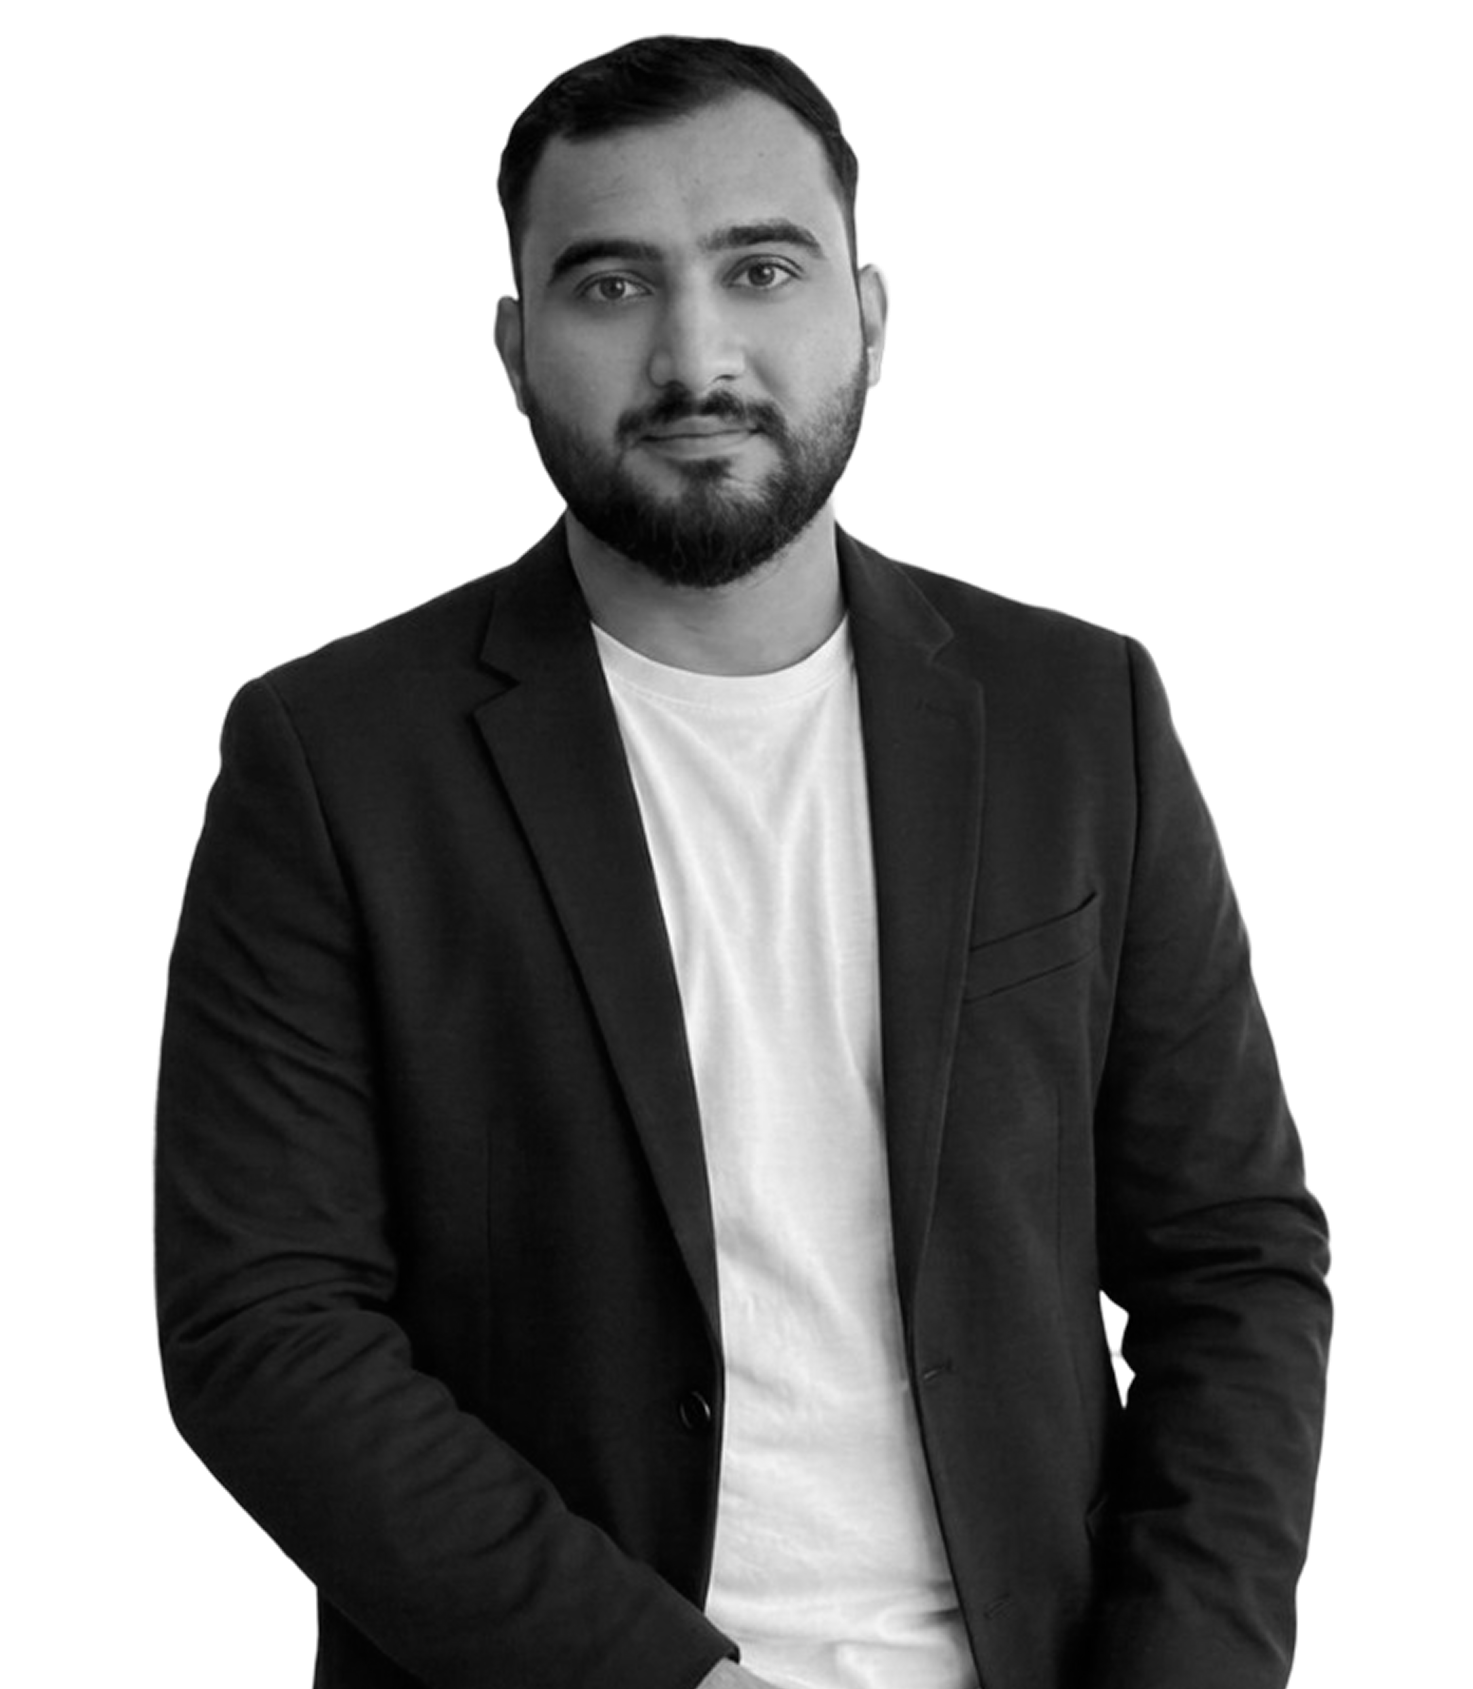
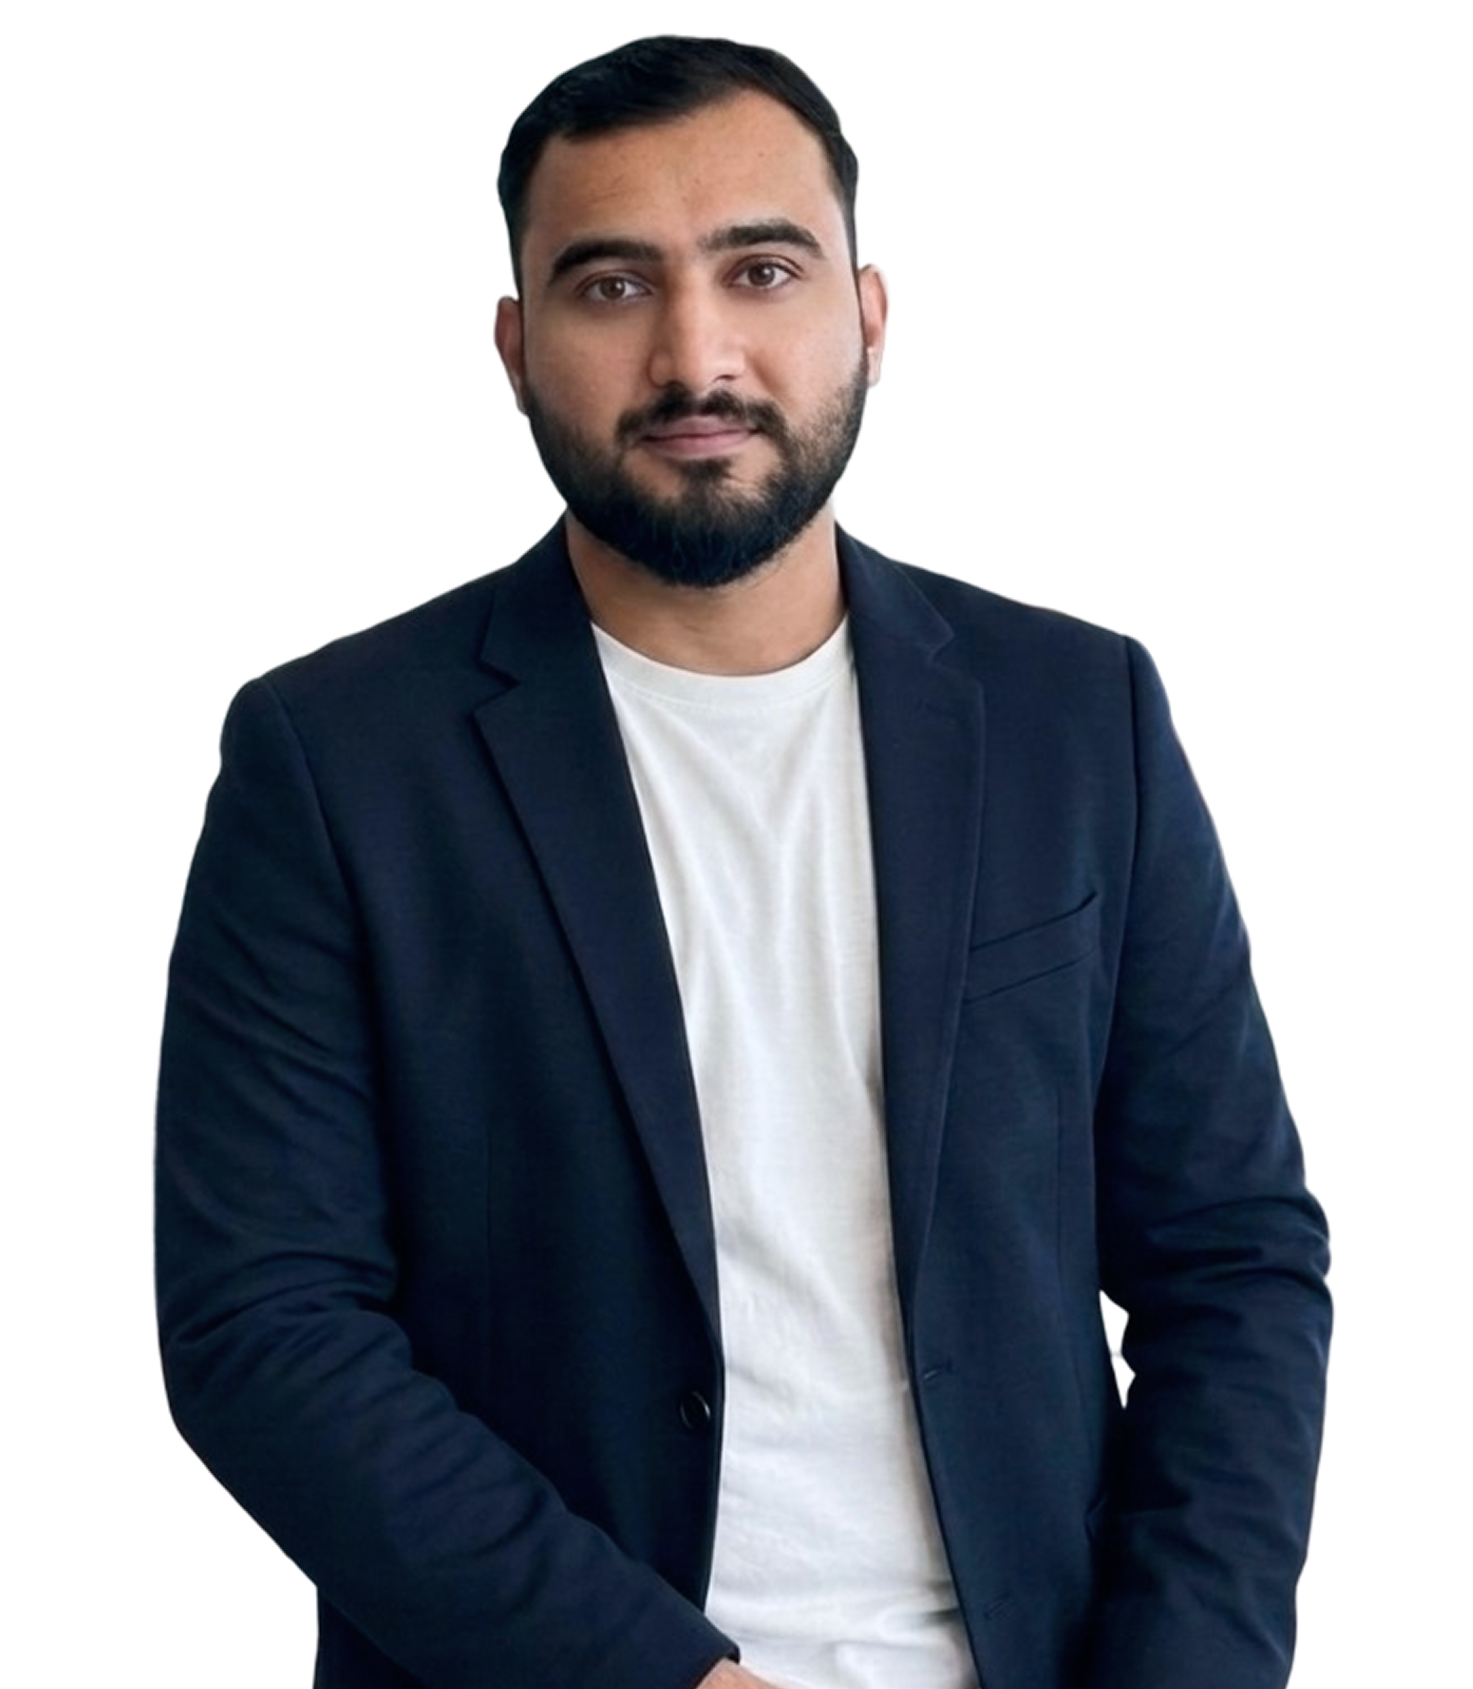
Real founder photos with colour-on-hover, unified hero gradient & full-height inner heroes
- Replace founder photos with colour versions (grayscale->colour on hover)
- Fix .founders::before overlay intercepting hover (pointer-events/z-index)
- Add blue gradient glow to home hero; keep particle field on home only
- Make inner-page heroes full-height & vertically centered to match home

diff --git a/src/App.css b/src/App.css
@@ -4694,6 +4694,17 @@ body {
 	background-size: cover;
 	background-repeat: no-repeat;
 	padding-bottom: 1rem;
+	position: relative;
+	overflow: hidden;
+}
+
+/* Inner-page hero fills the viewport & centers content — matches the home hero */
+.about-page .main-content {
+	min-height: calc(100vh - 142px);
+	min-height: calc(100svh - 142px);
+	justify-content: center;
+	position: relative;
+	z-index: 5;
 }
 
 .about-page::before {
@@ -5057,6 +5068,7 @@ body {
 	mask-position: center;
 	mask-composite: intersect;
 	z-index: 1;
+	pointer-events: none;
 }
 
 .founders h2 {
@@ -5074,6 +5086,8 @@ body {
 	justify-content: center;
 	gap: 40px;
 	height: 700px;
+	position: relative;
+	z-index: 2;
 }
 
 .founder-card {
@@ -11457,6 +11471,12 @@ body,
 	gap: 5px !important;
 	padding: 0 clamp(16px, 5vw, 40px) !important;
 	width: 100% !important;
+	z-index: 5 !important;
+}
+
+/* Home hero base + gradient glow sit behind the centered text */
+.home-page {
+	background: #000 !important;
 }
 
 .home-page > hr {
@@ -12696,6 +12716,16 @@ textarea,
    FOUNDER / TEAM PHOTOS — turn colourful on hover.
    Greyscale at rest, full colour + subtle zoom on hover.
    ========================================================= */
+/* Lift the cards above the .founders::before glow so they receive hover */
+.founders {
+	position: relative;
+}
+.founder-boxes,
+.founder-card {
+	position: relative;
+	z-index: 2;
+}
+
 .founder-card img,
 .team-leader-image img {
 	filter: grayscale(100%);
@@ -12706,9 +12736,10 @@ textarea,
 }
 
 .founder-card:hover img,
+.founder-card img:hover,
 .team-leader-card:hover .team-leader-image img,
 .team-leader-image:hover img {
-	filter: grayscale(0%) brightness(1.05) contrast(1.03);
+	filter: grayscale(0%) brightness(1.05) contrast(1.03) !important;
 	transform: scale(1.04);
 }
 

diff --git a/src/component/Home.js b/src/component/Home.js
@@ -335,7 +335,19 @@ function Home() {
 			<section
 				id='Home'
 				className='home-page'>
-				{/* 3D Background */}
+				{/* Hero gradient glow — matches the inner pages */}
+				<img
+					src='/contactrectleft.png'
+					alt=''
+					className='leftrect-amazon'
+				/>
+				<img
+					src='/contactrectright.png'
+					alt=''
+					className='rightrect-amazon'
+				/>
+
+				{/* 3D particle background — home page only */}
 				<EnhancedParticlesLikeSpline />
 
 				<hr style={{ color: 'white' }} />